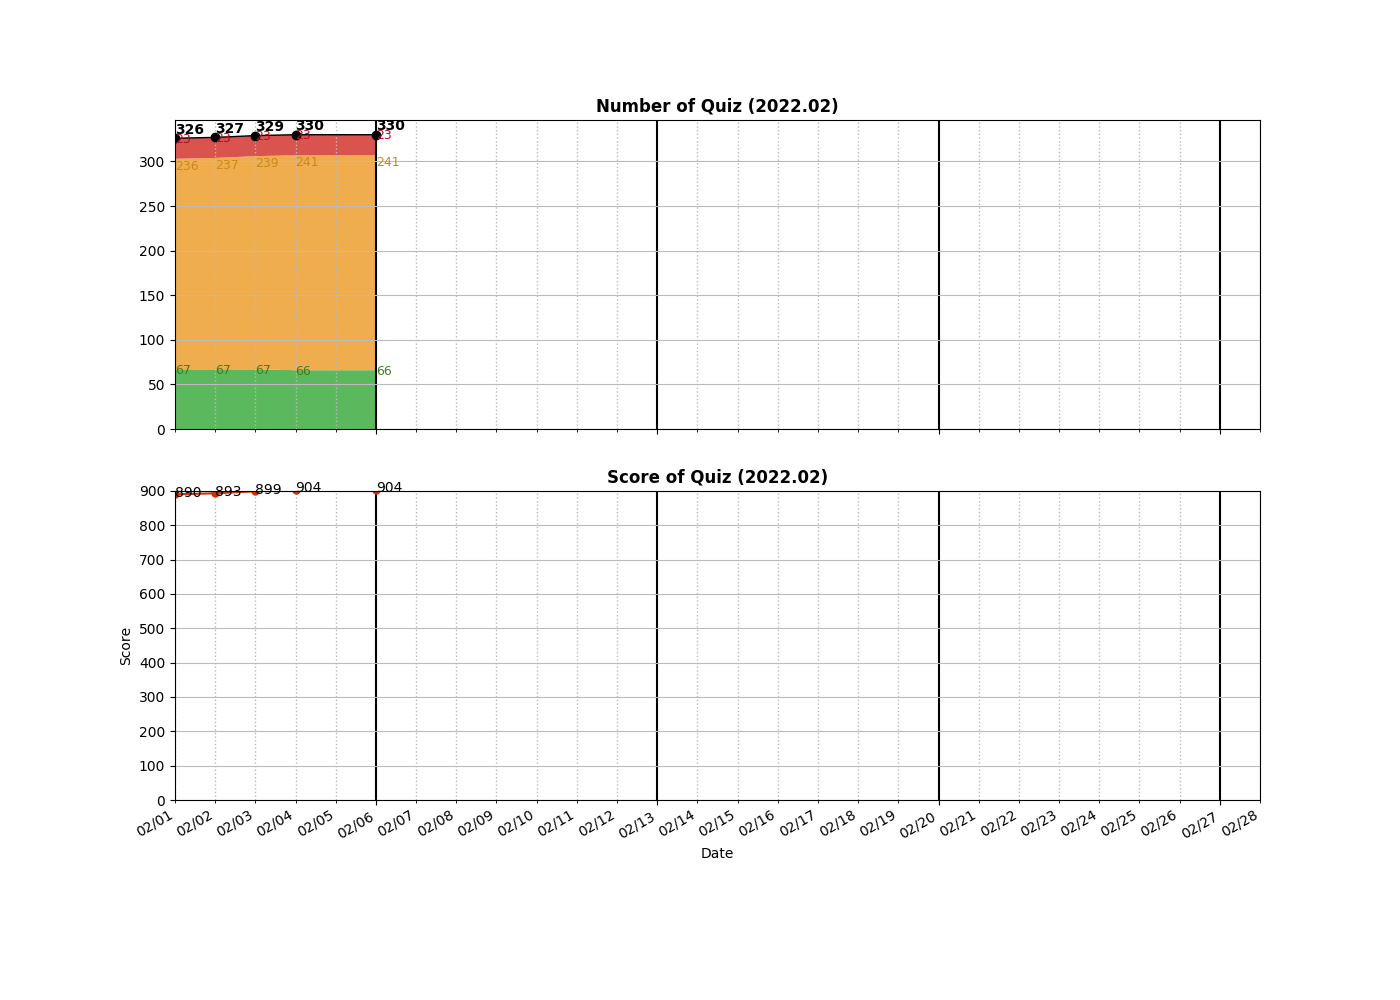
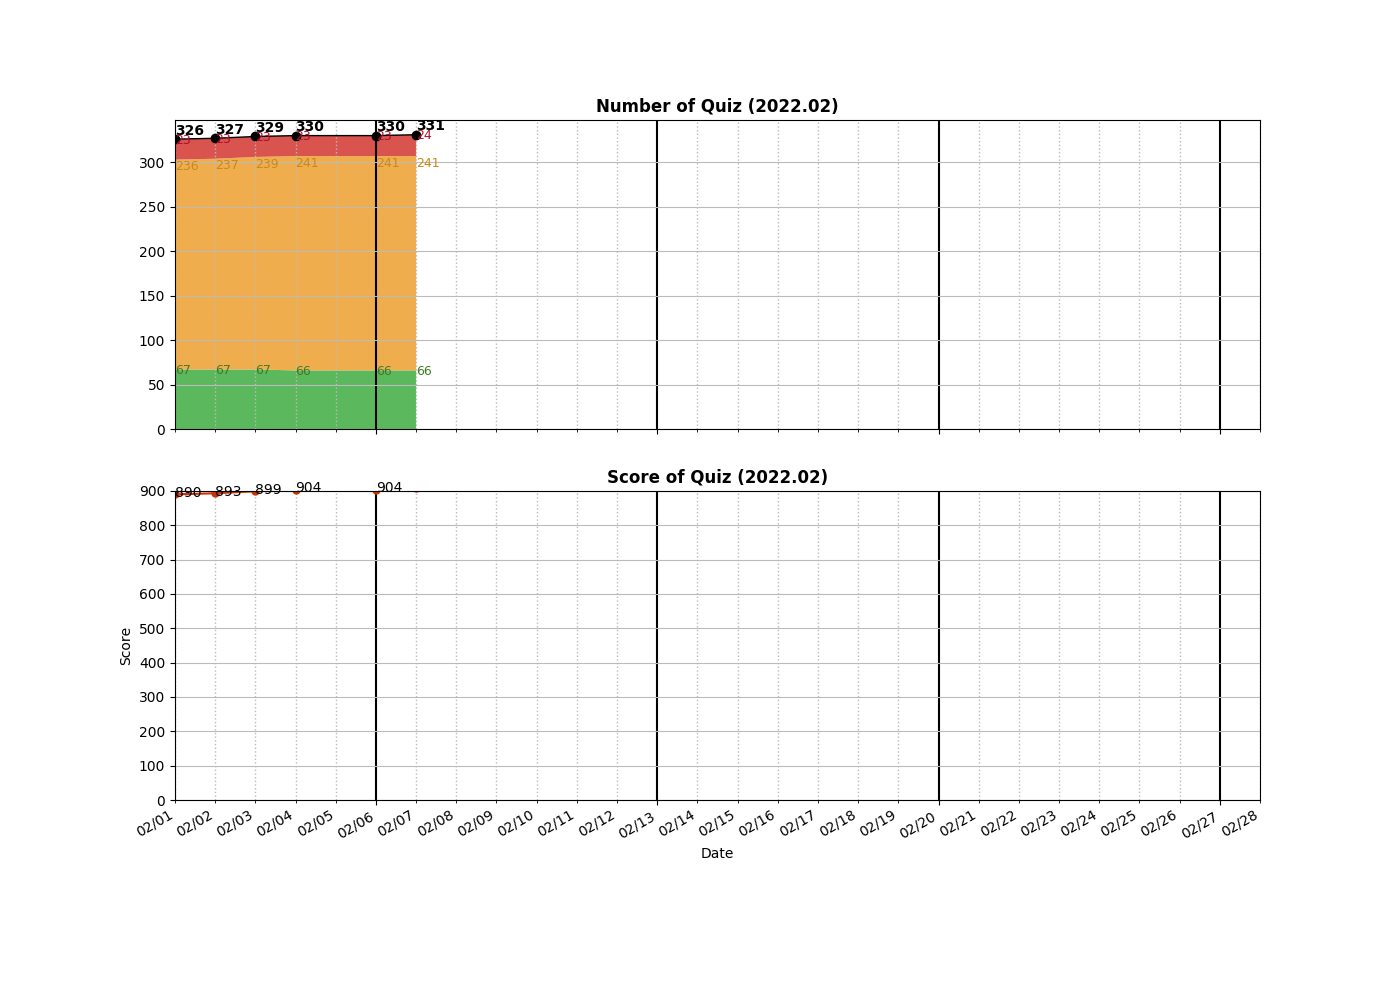
Updated __0079__Word Search.py

Changed region(s): [[0.1229, 0.124, 0.3071, 0.434], [0.0921, 0.155, 0.1229, 0.186]]

diff --git a/algo/DFS/__0079__Word Search.py b/algo/DFS/__0079__Word Search.py
@@ -2,9 +2,36 @@ DIR = [(0,1), (0,-1), (1,0), (-1,0)]
 
 class Solution:
     
+    # 2022/02/07 
+    def exist(self, board: List[List[str]], word: str) -> bool:
+        print("Code4")
+        m, n = len(board), len(board[0])
+        def dfs(word, i, j, idx, visited):
+            if idx == len(word):
+                return True
+            if not (0 <= i < m and 0 <= j < n):
+                return False
+            if word[idx] != board[i][j]:
+                return False
+            if (i, j) in visited:
+                return False
+            visited.add((i, j))
+            for ni, nj in ((i+1, j), (i-1, j), (i, j+1), (i, j-1)):
+                if dfs(word, ni, nj, idx + 1, visited):
+                    return True
+            visited.remove((i, j))
+            return False
+        for i in range(m):
+            for j in range(n):
+                if dfs(word, i, j, 0, set()):
+                    return True
+        return False
+    
+    # ==============================================
+        
     # 2021/10/17
     # DFS [O(MN*3^L): 53%]
-    def exist(self, board: List[List[str]], word: str) -> bool:
+    def exist3(self, board: List[List[str]], word: str) -> bool:
         print("Code3")
         if len(board) == 0 or len(board[0]) == 0 or len(word) == 0:
             return False

diff --git a/algo/_Template/BinarySearch.py b/algo/_Template/BinarySearch.py
@@ -1,0 +1,19 @@
+def binarySearch(arr, target):
+  start, end = 0, len(arr)
+  while start < end:
+    mid = start + (end - start) // 2
+    if target <= arr[mid]:  # "<=" needs to be end part  
+      end = mid
+    else:
+      start = mid + 1
+    # else:
+    #   return mid
+  return start, end
+
+print(-3, "->", binarySearch([2,5,8], -3))
+print(2, "->", binarySearch([2,5,8], 2))
+print(3, "->", binarySearch([2,5,8], 3))
+print(5, "->", binarySearch([2,5,8], 5))
+print(7, "->", binarySearch([2,5,8], 7))
+print(8, "->", binarySearch([2,5,8], 8))
+print(9, "->", binarySearch([2,5,8], 9))

diff --git a/README.md b/README.md
@@ -18,6 +18,7 @@ algo
 │   ├── __0560__Subarray Sum Equals K.py
 │   ├── __0670__Maximum Swap.py
 │   ├── __0760__Find Anagram Mappings.py
+│   ├── __0985__Sum of Even Numbers After Queries.py
 │   ├── __0986__Interval List Intersections.py
 │   └── __2154__Keep Multiplying Found Values by Two.py
 ├── BFS
@@ -365,11 +366,14 @@ algo
 │       ├── ArrayList.cpython-37.pyc
 │       ├── LinkedList.cpython-37.pyc
 │       └── UnrolledLinkedList.cpython-37.pyc
-└── _Interviews
-    ├── Countries.py
-    └── SwitchingArray.py
+├── _Interviews
+│   └── SmartNews-0
+│       ├── Countries.py
+│       └── SwitchingArray.py
+└── _Template
+    └── BinarySearch.py
 
-26 directories, 342 files
+28 directories, 344 files
 
 =====================================
 ============= Local Repo ============
@@ -647,6 +651,7 @@ __0973__K Closest Points to Origin.py
 __0975__Odd Even Jump.py
 __0979__Distribute Coins in Binary Tree.py
 __0981__Time Based Key-Value Store.py
+__0985__Sum of Even Numbers After Queries.py
 __0986__Interval List Intersections.py
 __0994__Rotting Oranges.py
 __1008__Construct Binary Search Tree from Preorder Traversal.py
@@ -705,7 +710,7 @@ __2154__Keep Multiplying Found Values by Two.py
 __2155__All Divisions With the Highest Score of a Binary Array.py
 __2156__Find Substring With Given Hash Value.py
 =====================================
-Num of Python Practice:  330
+Num of Python Practice:  331
 
 
 =====================================
@@ -984,6 +989,7 @@ Num of Python Practice:  330
  0975 Odd Even Jump
  0979 Distribute Coins in Binary Tree
  0981 Time Based Key-Value Store
+ 0985 Sum of Even Numbers After Queries
  0986 Interval List Intersections
  0994 Rotting Oranges
  1008 Construct Binary Search Tree from Preorder Traversal
@@ -1043,10 +1049,10 @@ Num of Python Practice:  330
  2156 Find Substring With Given Hash Value
 =====================================
 Solved / Total (Easy)  :   66 /  545
-Solved / Total (Medium):  241 / 1157
-Solved / Total (Hard)  :   23 /  465
-Solved / Total (All)   :  330 / 2167
-Total Score            :  904
+Solved / Total (Medium):  241 / 1156
+Solved / Total (Hard)  :   24 /  466
+Solved / Total (All)   :  331 / 2167
+Total Score            :  909
 =====================================
 
 ```
